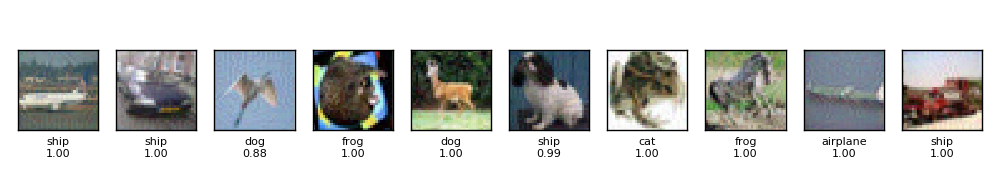
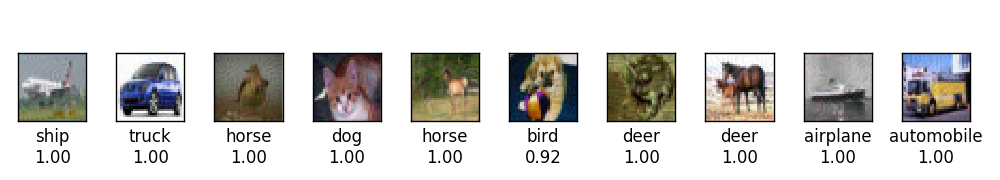
example 06

diff --git a/ex_06.py b/ex_06.py
@@ -213,7 +213,7 @@ for i in range(10):
     ax.set_xticks([])
     ax.set_yticks([])
     ax.set_xlabel('{0}\n{1:.2f}'.format(labels[z_tmp[i]], y_tmp[i]),
-                  fontsize=8)
+                  fontsize=12)
 
 gs.tight_layout(fig)
 os.makedirs('img', exist_ok=True)
